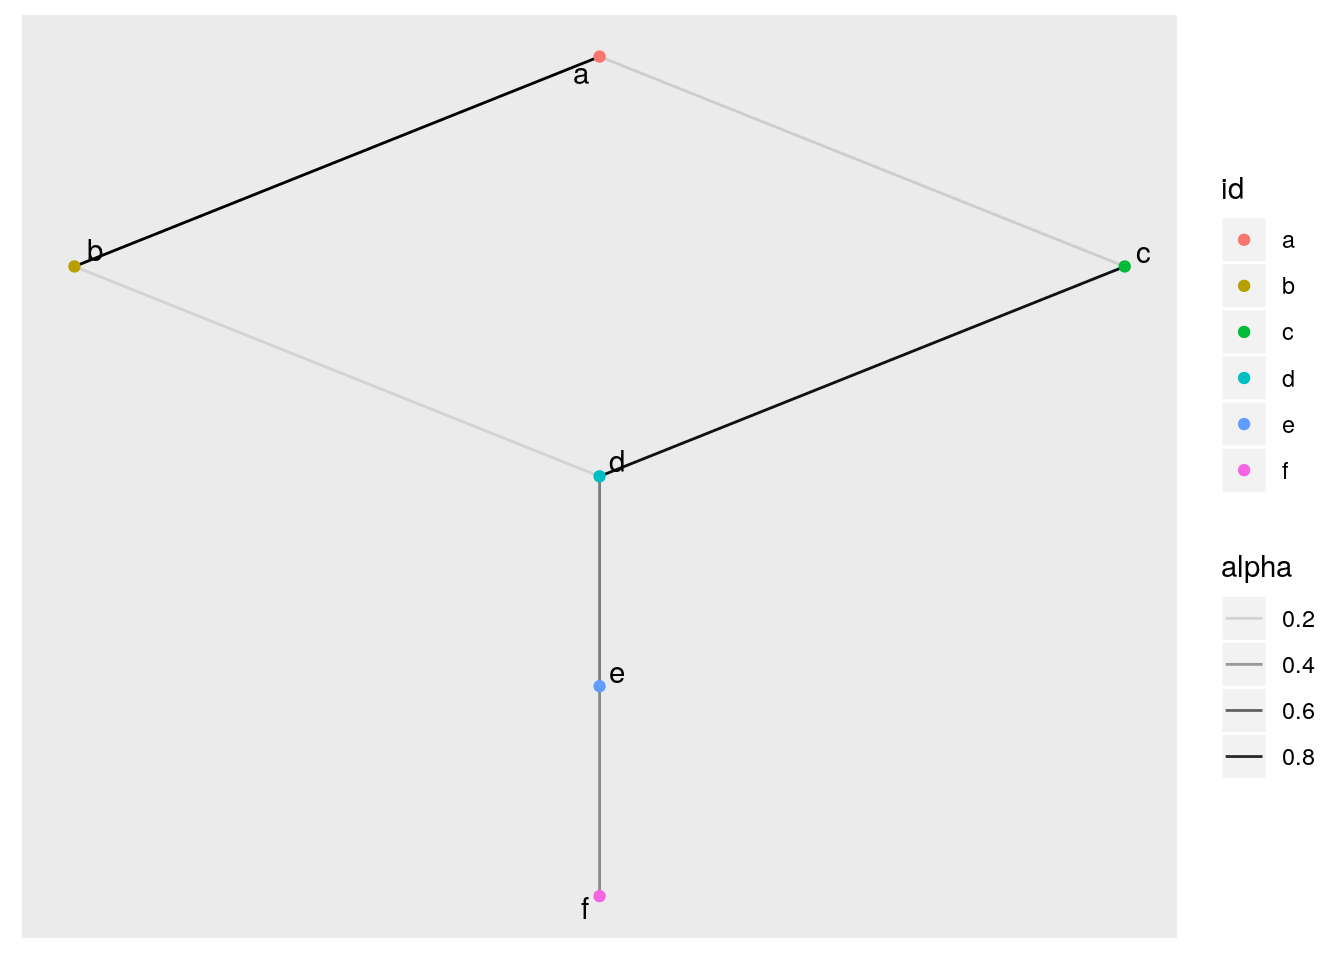
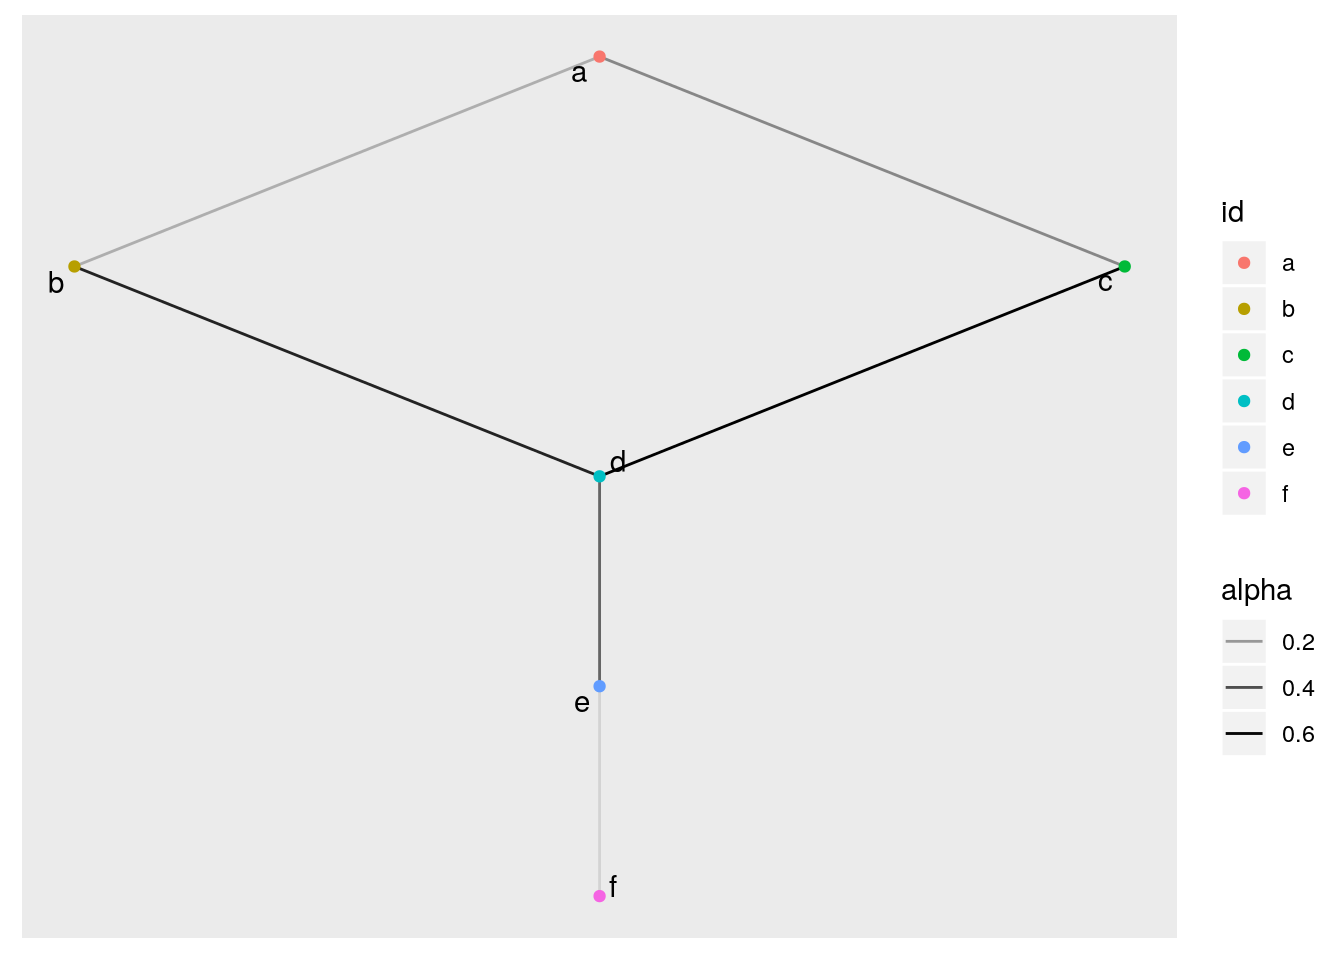
fixed some text on the networks post

diff --git a/public/2020/03/08/2020-03-08-intro-to-networks/index.html b/public/2020/03/08/2020-03-08-intro-to-networks/index.html
@@ -3,15 +3,15 @@
     <head>
         <meta charset="utf-8">
         <meta http-equiv="X-UA-Compatible" content="IE=edge">
-        <title>A Brief Introduction to Network Analysis with Tidygraph &middot; My Name</title>
-        <meta name="description" content="An introduction to networks in R using the tidygraph, ggraph, and networkD3 packages">
+        <title>A Brief Introduction to Network Analysis with R &middot; My Name</title>
+        <meta name="description" content="Using the tidygraph, ggraph, and networkD3 packages">
         <meta name="HandheldFriendly" content="True">
         <meta name="MobileOptimized" content="320">
         <meta name="generator" content="Hugo 0.59.1" />
         <meta name="robots" content="index,follow">
         <meta name="viewport" content="width=device-width, initial-scale=1.0">
-        <meta property="og:title" content="A Brief Introduction to Network Analysis with Tidygraph">
-<meta property="og:description" content="An introduction to networks in R using the tidygraph, ggraph, and networkD3 packages">
+        <meta property="og:title" content="A Brief Introduction to Network Analysis with R">
+<meta property="og:description" content="Using the tidygraph, ggraph, and networkD3 packages">
 <meta property="og:type" content="article">
 <meta property="og:url" content="/2020/03/08/2020-03-08-intro-to-networks/">
         <link rel="stylesheet" href="../../../../dist/styles.css">
@@ -78,9 +78,9 @@ if (!doNotTrack) {
 <div class="container">
     <article class="post-container" itemscope="" itemtype="http://schema.org/BlogPosting">
         <header class="post-header">
-    <h1 class="post-title" itemprop="name headline">A Brief Introduction to Network Analysis with Tidygraph</h1>
+    <h1 class="post-title" itemprop="name headline">A Brief Introduction to Network Analysis with R</h1>
     
-        <p class="post-description" itemprop="description">An introduction to networks in R using the tidygraph, ggraph, and networkD3 packages</p>
+        <p class="post-description" itemprop="description">Using the tidygraph, ggraph, and networkD3 packages</p>
     
     <p class="post-date post-line">
         <span>Published <time datetime="2020-03-08" itemprop="datePublished">Sun, Mar 8, 2020</time></span>
@@ -103,16 +103,15 @@ if (!doNotTrack) {
 <script src="../../../../rmarkdown-libs/forceNetwork-binding/forceNetwork.js"></script>
 
 
-<p>In this post I will you walk through the basics of working with network objects in R. We will first create a simple network as an example, manipulate it using tidygraph’s very clean framework, and then do some simple plotting using ggraph and networkD3. Then we will step it up a bit and use some larger data and calculate some network metrics.</p>
-<p>My goal for this post is to show you how easily the simple manipulation steps from the simple example transfer over to the more complex, and allow us to simply carry out a lot of complex calculations with very little code.</p>
-<p>If you are familiar with the tidyverese’s dplyr and ggplot packages you will be right at home using the tidygraph.</p>
+<p>In this post I will you walk through the basics of working with network objects in R. We will first create a simple network as an example, manipulate it using tidygraph’s very clean framework, and then do some simple plotting using ggraph and networkD3. Then we will step it up a bit with a larger dataset and calculate some network metrics.</p>
+<p>My goal for this post is to show you how the manipulation steps from the simple example transfer over to the more complex one. And how these packages allow you to easily carry out a lot of complex calculations with very little code.</p>
 <div id="libraries-needed" class="section level1">
 <h1>Libraries needed:</h1>
 <pre class="r"><code>library(tidygraph) # Network manipulation
 library(magrittr)  # Data wrangling
 library(tidyverse) # Data wrangling
 library(ggraph)    # Static network plotting
-library(patchwork) # Arrainging satic plots
+library(patchwork) # Arrainging plots
 library(networkD3) # Interactive network plotting</code></pre>
 </div>
 <div id="lets-make-a-simple-graph" class="section level1">
@@ -122,7 +121,7 @@ library(networkD3) # Interactive network plotting</code></pre>
 
 to    &lt;- c(2, 3, 4, 4 ,5, 6)
 
-# combine the from and to vectors into a simple dataframe
+# combine the from and to vectors into a simple dataframe 
 basic &lt;- tibble(from, to)</code></pre>
 <p>So what we have is what is called an “edge list” which is essentially a dataframe that says “there is a connection from node 1 to node 2, anther from node 1 to node 3.” And on and on…</p>
 <pre><code>## # A tibble: 6 x 2
@@ -182,14 +181,14 @@ This an awesome function, but the functionality and customization is a bit limit
 ## # A directed acyclic simple graph with 1 component
 ## #
 ## # Edge Data: 6 x 3 (active)
-##    from    to alpha
-##   &lt;int&gt; &lt;int&gt; &lt;dbl&gt;
-## 1     1     2 0.945
-## 2     1     3 0.199
-## 3     2     4 0.173
-## 4     3     4 0.885
-## 5     4     5 0.489
-## 6     5     6 0.437
+##    from    to  alpha
+##   &lt;int&gt; &lt;int&gt;  &lt;dbl&gt;
+## 1     1     2 0.124 
+## 2     1     3 0.234 
+## 3     2     4 0.518 
+## 4     3     4 0.618 
+## 5     4     5 0.330 
+## 6     5     6 0.0179
 ## #
 ## # Node Data: 6 x 2
 ##   name  id   

diff --git a/content/post/2020-03-08-intro-to-networks.html b/content/post/2020-03-08-intro-to-networks.html
@@ -1,11 +1,11 @@
 ---
-title: 'A Brief Introduction to Network Analysis with Tidygraph'
+title: 'A Brief Introduction to Network Analysis with R'
 author: G
 date: '2020-03-08'
 slug: intro-to-networks
 categories: ["networks"]
 tags: ["rstats", "network analysis", "tidygraph"]
-description: 'An introduction to networks in R using the tidygraph, ggraph, and networkD3 packages'
+description: 'Using the tidygraph, ggraph, and networkD3 packages'
 ---
 
 <script src="/rmarkdown-libs/htmlwidgets/htmlwidgets.js"></script>
@@ -13,16 +13,15 @@ description: 'An introduction to networks in R using the tidygraph, ggraph, and 
 <script src="/rmarkdown-libs/forceNetwork-binding/forceNetwork.js"></script>
 
 
-<p>In this post I will you walk through the basics of working with network objects in R. We will first create a simple network as an example, manipulate it using tidygraph’s very clean framework, and then do some simple plotting using ggraph and networkD3. Then we will step it up a bit and use some larger data and calculate some network metrics.</p>
-<p>My goal for this post is to show you how easily the simple manipulation steps from the simple example transfer over to the more complex, and allow us to simply carry out a lot of complex calculations with very little code.</p>
-<p>If you are familiar with the tidyverese’s dplyr and ggplot packages you will be right at home using the tidygraph.</p>
+<p>In this post I will you walk through the basics of working with network objects in R. We will first create a simple network as an example, manipulate it using tidygraph’s very clean framework, and then do some simple plotting using ggraph and networkD3. Then we will step it up a bit with a larger dataset and calculate some network metrics.</p>
+<p>My goal for this post is to show you how the manipulation steps from the simple example transfer over to the more complex one. And how these packages allow you to easily carry out a lot of complex calculations with very little code.</p>
 <div id="libraries-needed" class="section level1">
 <h1>Libraries needed:</h1>
 <pre class="r"><code>library(tidygraph) # Network manipulation
 library(magrittr)  # Data wrangling
 library(tidyverse) # Data wrangling
 library(ggraph)    # Static network plotting
-library(patchwork) # Arrainging satic plots
+library(patchwork) # Arrainging plots
 library(networkD3) # Interactive network plotting</code></pre>
 </div>
 <div id="lets-make-a-simple-graph" class="section level1">
@@ -32,7 +31,7 @@ library(networkD3) # Interactive network plotting</code></pre>
 
 to    &lt;- c(2, 3, 4, 4 ,5, 6)
 
-# combine the from and to vectors into a simple dataframe
+# combine the from and to vectors into a simple dataframe 
 basic &lt;- tibble(from, to)</code></pre>
 <p>So what we have is what is called an “edge list” which is essentially a dataframe that says “there is a connection from node 1 to node 2, anther from node 1 to node 3.” And on and on…</p>
 <pre><code>## # A tibble: 6 x 2
@@ -92,14 +91,14 @@ This an awesome function, but the functionality and customization is a bit limit
 ## # A directed acyclic simple graph with 1 component
 ## #
 ## # Edge Data: 6 x 3 (active)
-##    from    to alpha
-##   &lt;int&gt; &lt;int&gt; &lt;dbl&gt;
-## 1     1     2 0.945
-## 2     1     3 0.199
-## 3     2     4 0.173
-## 4     3     4 0.885
-## 5     4     5 0.489
-## 6     5     6 0.437
+##    from    to  alpha
+##   &lt;int&gt; &lt;int&gt;  &lt;dbl&gt;
+## 1     1     2 0.124 
+## 2     1     3 0.234 
+## 3     2     4 0.518 
+## 4     3     4 0.618 
+## 5     4     5 0.330 
+## 6     5     6 0.0179
 ## #
 ## # Node Data: 6 x 2
 ##   name  id   

diff --git a/public/tags/network-analysis/index.html b/public/tags/network-analysis/index.html
@@ -91,9 +91,9 @@ if (!doNotTrack) {
         
             <li class="post-stub">
     <a href="../../2020/03/08/2020-03-08-intro-to-networks/">
-        <h4 class="post-stub-title">A Brief Introduction to Network Analysis with Tidygraph</h4>
+        <h4 class="post-stub-title">A Brief Introduction to Network Analysis with R</h4>
         
-            <p class="post-stub-description">An introduction to networks in R using the tidygraph, ggraph, and networkD3 packages</p>
+            <p class="post-stub-description">Using the tidygraph, ggraph, and networkD3 packages</p>
         
         
     </a>

diff --git a/public/tags/rstats/index.html b/public/tags/rstats/index.html
@@ -91,9 +91,9 @@ if (!doNotTrack) {
         
             <li class="post-stub">
     <a href="../../2020/03/08/2020-03-08-intro-to-networks/">
-        <h4 class="post-stub-title">A Brief Introduction to Network Analysis with Tidygraph</h4>
+        <h4 class="post-stub-title">A Brief Introduction to Network Analysis with R</h4>
         
-            <p class="post-stub-description">An introduction to networks in R using the tidygraph, ggraph, and networkD3 packages</p>
+            <p class="post-stub-description">Using the tidygraph, ggraph, and networkD3 packages</p>
         
         
     </a>

diff --git a/public/tags/tidygraph/index.html b/public/tags/tidygraph/index.html
@@ -91,9 +91,9 @@ if (!doNotTrack) {
         
             <li class="post-stub">
     <a href="../../2020/03/08/2020-03-08-intro-to-networks/">
-        <h4 class="post-stub-title">A Brief Introduction to Network Analysis with Tidygraph</h4>
+        <h4 class="post-stub-title">A Brief Introduction to Network Analysis with R</h4>
         
-            <p class="post-stub-description">An introduction to networks in R using the tidygraph, ggraph, and networkD3 packages</p>
+            <p class="post-stub-description">Using the tidygraph, ggraph, and networkD3 packages</p>
         
         
     </a>

diff --git a/public/post/index.html b/public/post/index.html
@@ -91,7 +91,7 @@ if (!doNotTrack) {
         
             <li class="post-stub" itemprop="blogPost" itemscope="" itemtype="https://schema.org/BlogPosting">
     <a href="../2020/03/08/2020-03-08-intro-to-networks/" itemprop="url" title="Go to post detail">
-        <h4 class="post-stub-title" itemprop="name">A Brief Introduction to Network Analysis with Tidygraph</h4>
+        <h4 class="post-stub-title" itemprop="name">A Brief Introduction to Network Analysis with R</h4>
         <time class="post-stub-date" datetime="2020-03-08">Published Sun, Mar 8, 2020</time>
         
     </a>

diff --git a/public/index.html b/public/index.html
@@ -91,7 +91,7 @@ if (!doNotTrack) {
         
             <li class="post-stub" itemprop="blogPost" itemscope="" itemtype="https://schema.org/BlogPosting">
     <a href="./2020/03/08/2020-03-08-intro-to-networks/" itemprop="url" title="Go to post detail">
-        <h4 class="post-stub-title" itemprop="name">A Brief Introduction to Network Analysis with Tidygraph</h4>
+        <h4 class="post-stub-title" itemprop="name">A Brief Introduction to Network Analysis with R</h4>
         <time class="post-stub-date" datetime="2020-03-08">Published Sun, Mar 8, 2020</time>
         
     </a>
